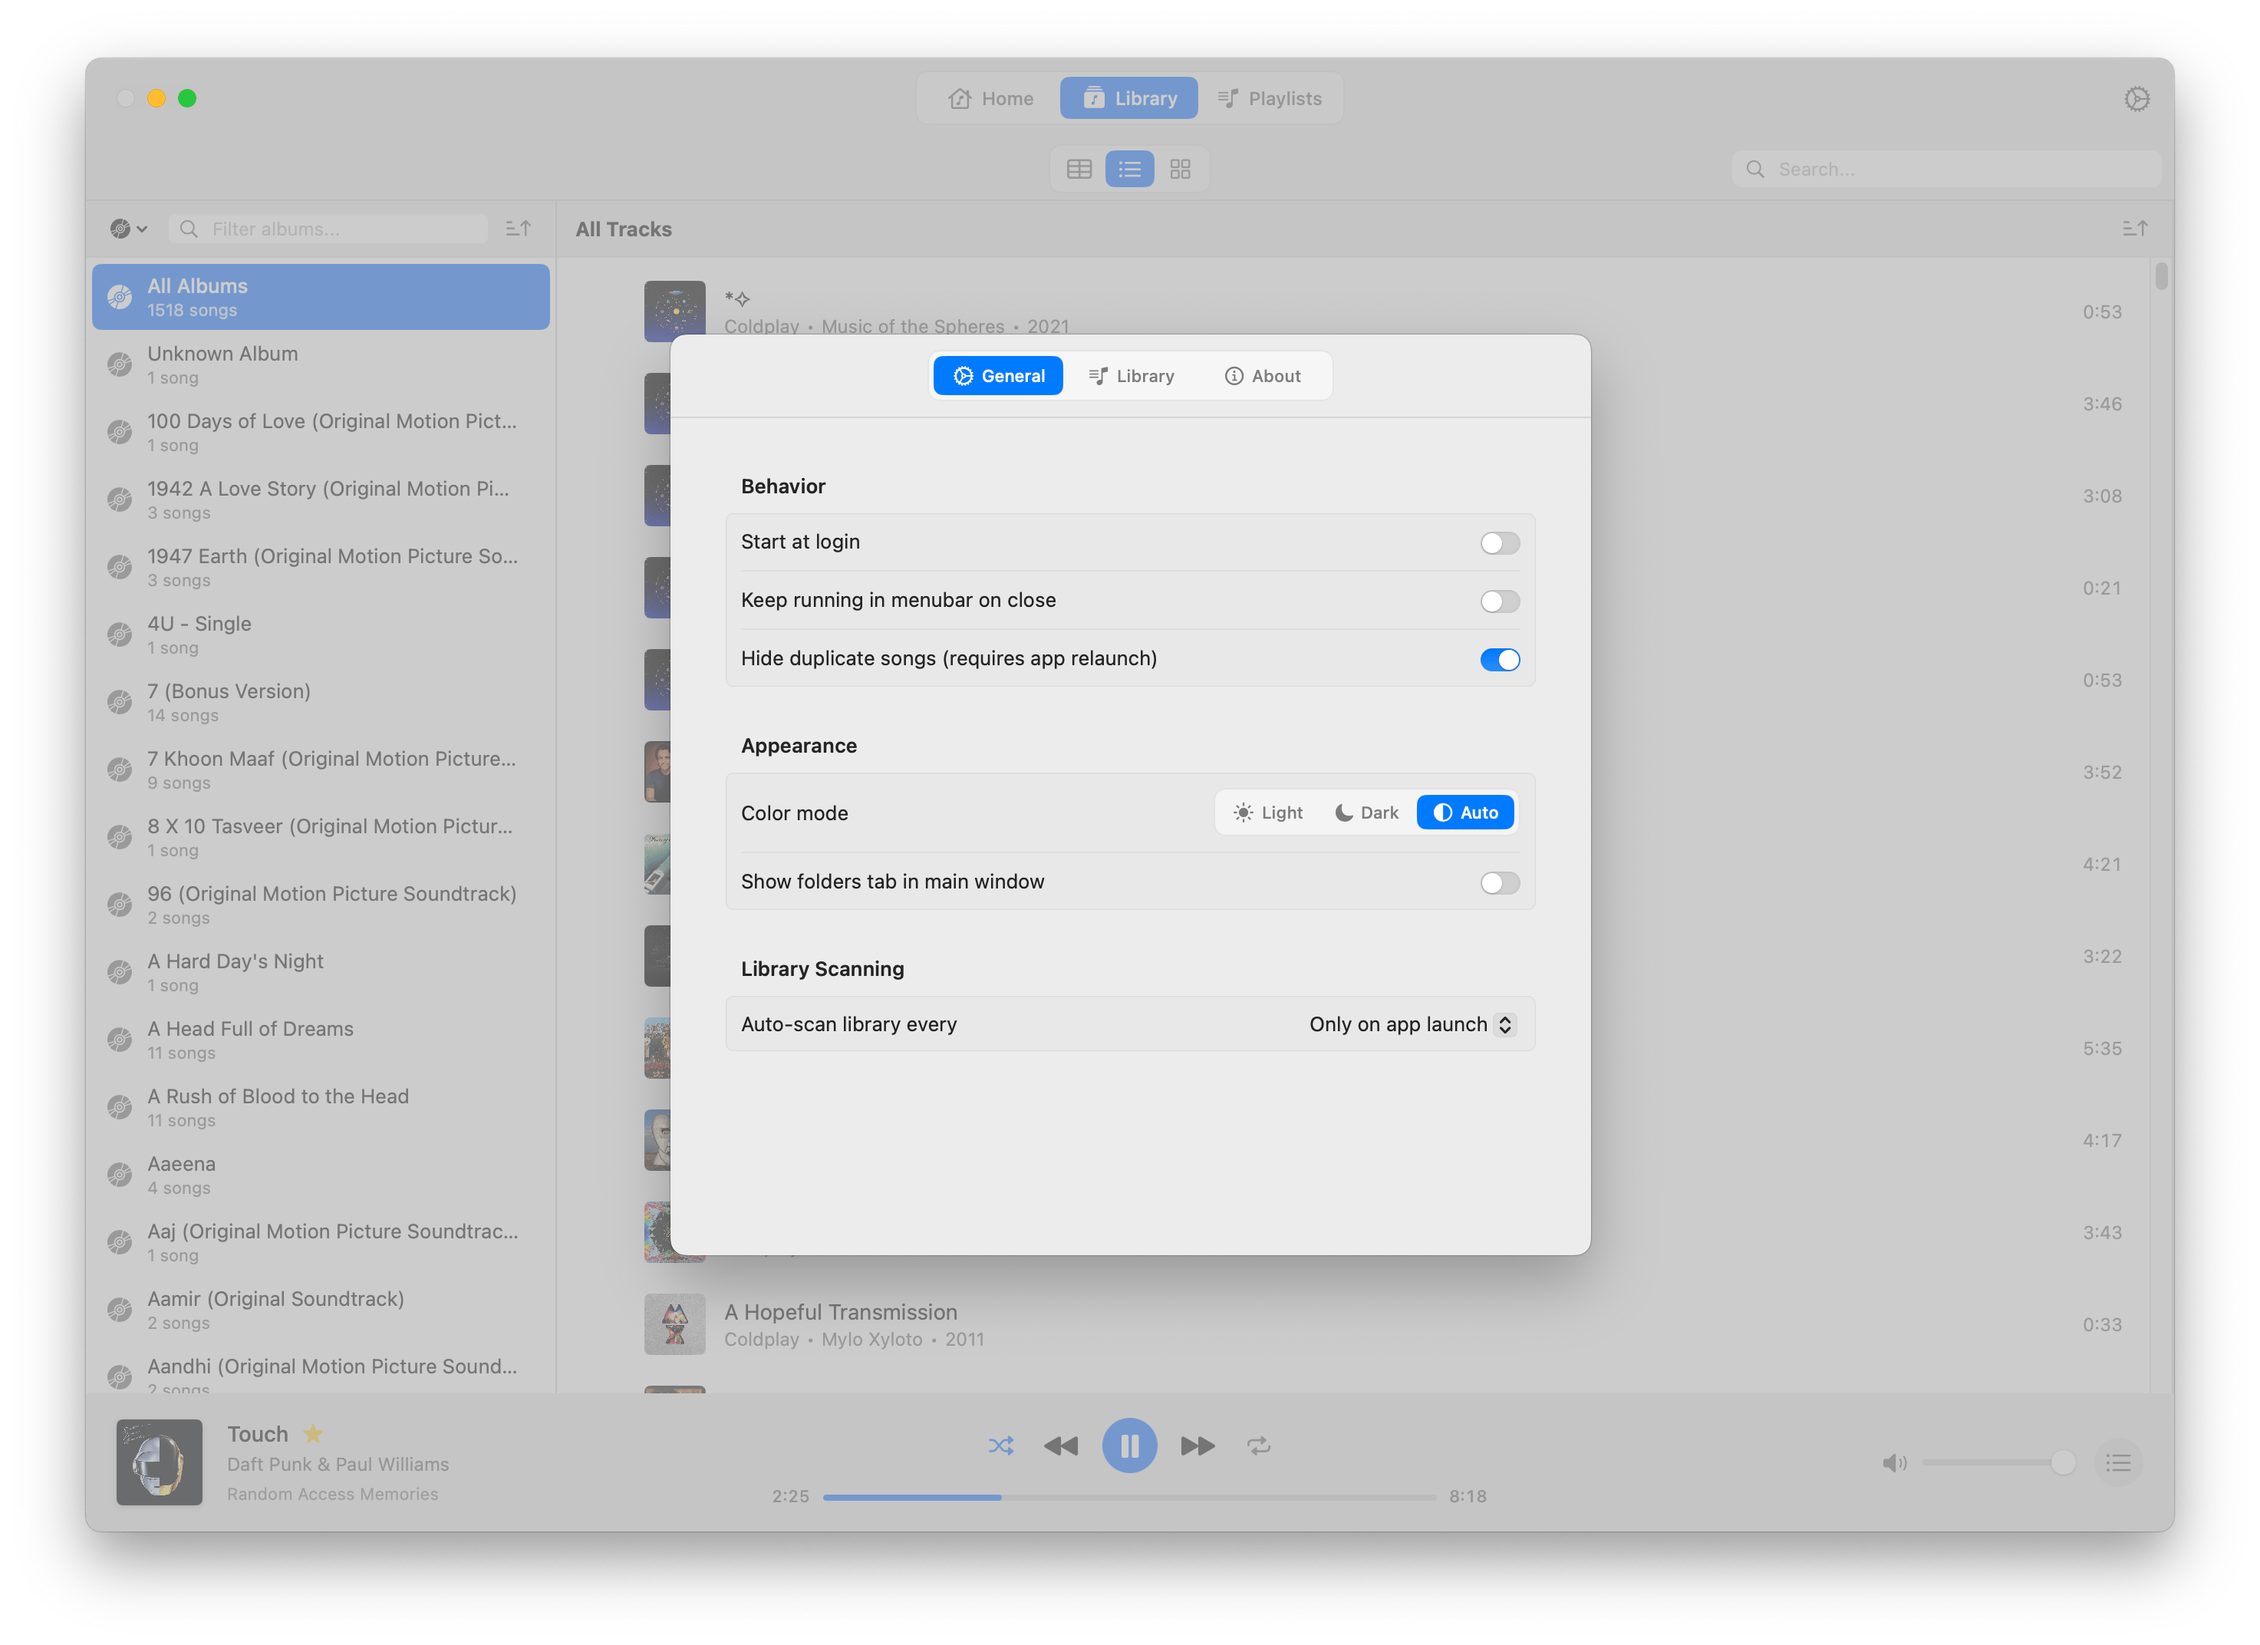
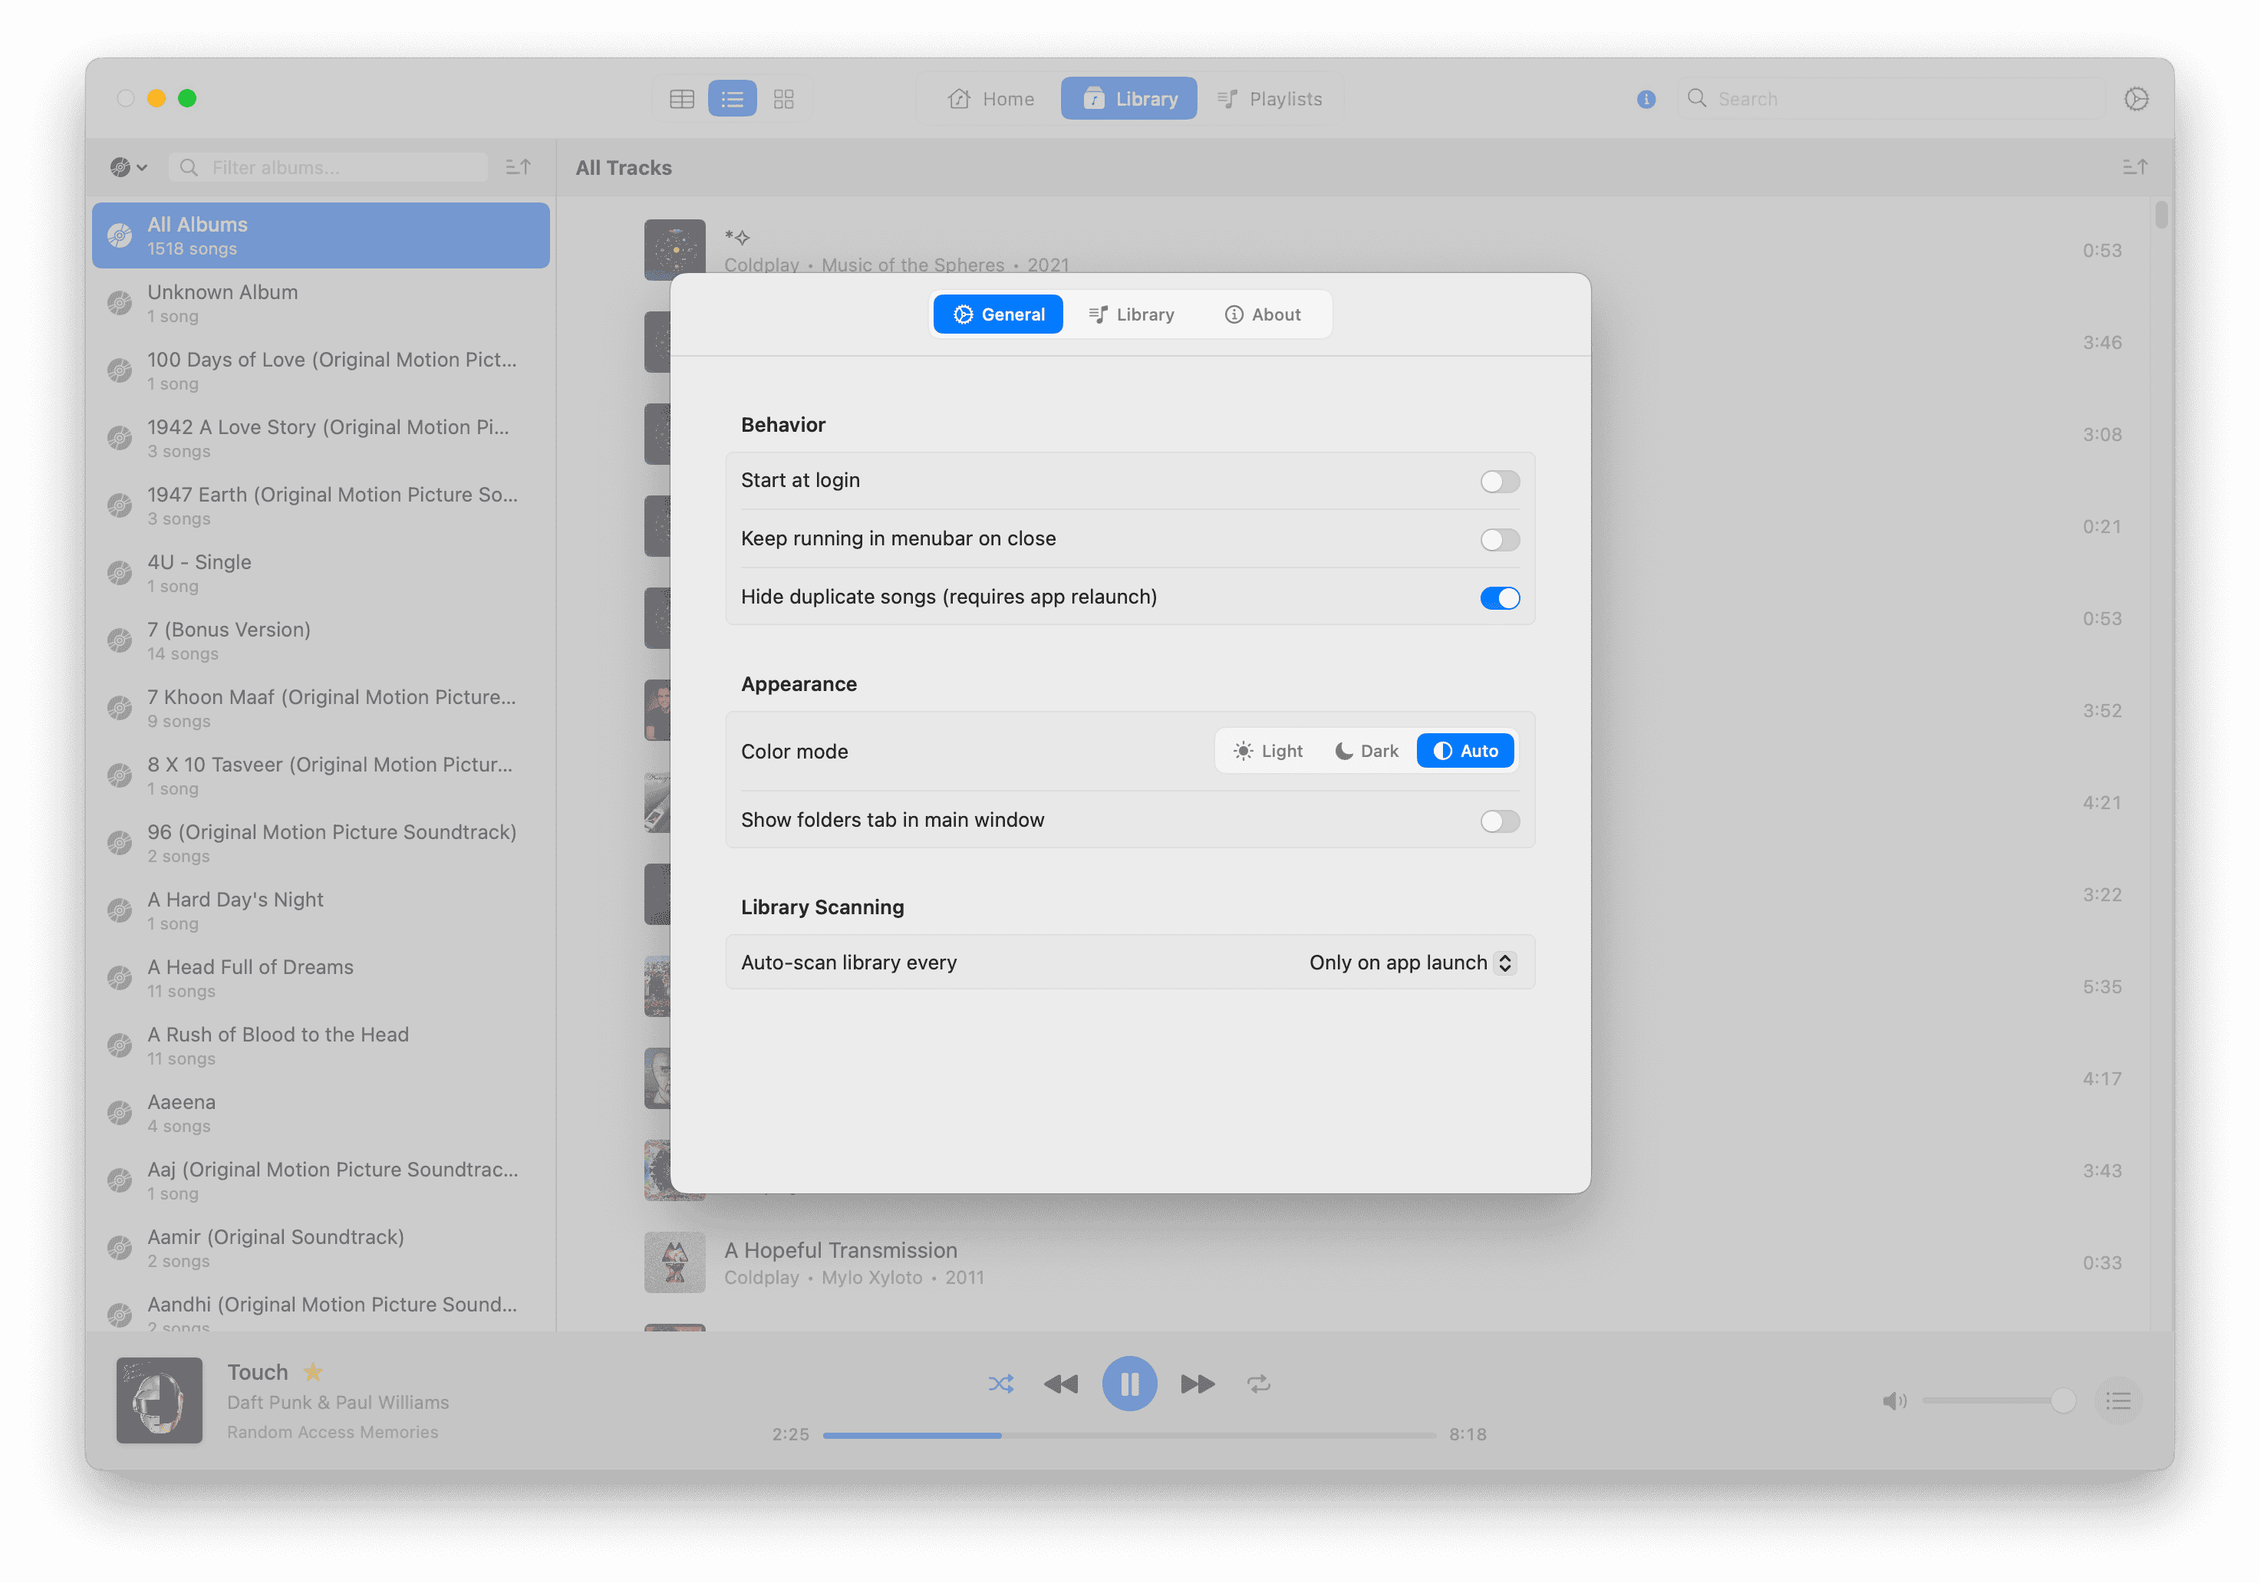
Combined ContextualToolbar with main Toolbar

diff --git a/Views/Main/ContentView.swift b/Views/Main/ContentView.swift
@@ -27,32 +27,22 @@ struct ContentView: View {
     @State private var windowDelegate = WindowDelegate()
     @State private var isSettingsHovered = false
     @State private var homeShowingEntities: Bool = false
+    @State private var secondaryWidth: CGFloat?
+    @State private var primaryMaxX: CGFloat?
+    @State private var primaryWidth: CGFloat?
+    @State private var principalWidth: CGFloat?
+    
+    private var statusMinWidth: CGFloat? {
+        if let primaryMaxX, let primaryWidth, let principalWidth, let secondaryWidth {
+            min(secondaryWidth, max(0, primaryMaxX / 2 - principalWidth / 2 - primaryWidth - 30))
+        } else {
+            nil
+        }
+    }
 
     var body: some View {
         VStack(spacing: 0) {
-            // Persistent Contextual Toolbar - always present when we have music
-            if !libraryManager.folders.isEmpty && !libraryManager.tracks.isEmpty {
-                ContextualToolbar(
-                    viewType: Binding(
-                        get: {
-                            if selectedTab == .home && homeShowingEntities {
-                                return entityViewType
-                            }
-                            return globalViewType
-                        },
-                        set: { newValue in
-                            if selectedTab == .home && homeShowingEntities {
-                                entityViewType = newValue
-                            } else {
-                                globalViewType = newValue
-                            }
-                        }
-                    ),
-                    disableTableView: selectedTab == .home && homeShowingEntities
-                )
-                .frame(height: 40)
-                Divider()
-            }
+            Divider()
 
             // Main Content Area with Queue
             mainContentArea
@@ -195,6 +185,39 @@ struct ContentView: View {
 
     @ToolbarContentBuilder
     private var toolbarContent: some ToolbarContent {
+        ToolbarItemGroup(placement: .secondaryAction) {
+            HStack(spacing: 0) {
+                // Persistent Contextual Toolbar - always present when we have music
+                if !libraryManager.folders.isEmpty && !libraryManager.tracks.isEmpty {
+                    ContextualToolbar(
+                        viewType: Binding(
+                            get: {
+                                if selectedTab == .home && homeShowingEntities {
+                                    return entityViewType
+                                }
+                                return globalViewType
+                            },
+                            set: { newValue in
+                                if selectedTab == .home && homeShowingEntities {
+                                    entityViewType = newValue
+                                } else {
+                                    globalViewType = newValue
+                                }
+                            }
+                        ),
+                        disableTableView: selectedTab == .home && homeShowingEntities
+                    )
+                    .frame(height: 40)
+                }
+            }
+            .padding(.trailing, 50)
+            .onGeometryChange(for: CGFloat.self) { proxy in
+                proxy.frame(in: .global).width
+            } action: { width in
+                secondaryWidth = width
+            }
+        }
+        
         ToolbarItem(placement: .principal) {
             TabbedButtons(
                 items: Sections.allCases.filter { $0 != .folders || showFoldersTab },
@@ -202,15 +225,47 @@ struct ContentView: View {
                 animation: .transform,
                 isDisabled: libraryManager.folders.isEmpty
             )
+			.onGeometryChange(for: CGFloat.self) { proxy in
+                proxy.frame(in: .global).width
+            } action: { width in
+                principalWidth = width
+            }
+        }
+        
+        ToolbarItem(placement: .status) {
+            Color.clear.frame(minWidth: statusMinWidth, idealWidth: statusMinWidth, maxWidth: statusMinWidth)
         }
 
         ToolbarItem(placement: .primaryAction) {
             HStack(alignment: .center, spacing: 8) {
                 NotificationTray()
                     .frame(width: 24, height: 24)
-
+                searchField
                 settingsButton
             }
+			.onGeometryChange(for: PrimaryActionMetrics.self) { proxy in
+                let frame = proxy.frame(in: .global)
+                return PrimaryActionMetrics(maxX: frame.maxX, width: frame.width)
+            } action: { metrics in
+                primaryMaxX = metrics.maxX
+                primaryWidth = metrics.width
+            }
+        }
+    }
+	
+	// MARK: - Search Input Field
+    private var searchField: some View {
+        HStack(spacing: 6) {
+            // TODO we should ideally replace this with `.searchable`
+            // which provides this UX without log of extra code, although
+            // it would require titlebar layout changes.
+            SearchInputField(
+                text: $libraryManager.globalSearchText,
+                placeholder: "Search",
+                fontSize: 12,
+                width: 280
+            )
+            .frame(width: 280)
         }
     }
 
@@ -272,6 +327,11 @@ struct ContentView: View {
             showingTrackDetail = false
             detailTrack = nil
         }
+    }
+    
+    private struct PrimaryActionMetrics: Equatable {
+        let maxX: CGFloat
+        let width: CGFloat
     }
 }
 

diff --git a/Views/Components/TabbedButtons.swift b/Views/Components/TabbedButtons.swift
@@ -35,19 +35,22 @@ struct TabbedButtons<Item: TabbedItem>: View {
     let style: TabbedButtonStyle
     let animation: TabbedButtonAnimation
     let isDisabled: Bool
+    let disableTableView: Bool
 
     init(
         items: [Item],
         selection: Binding<Item>,
         style: TabbedButtonStyle = .standard,
         animation: TabbedButtonAnimation = .fade,
-        isDisabled: Bool = false
+        isDisabled: Bool = false,
+        disableTableView: Bool = false
     ) {
         self.items = items
         self._selection = selection
         self.style = style
         self.animation = animation
         self.isDisabled = isDisabled
+        self.disableTableView = disableTableView
     }
 
     var body: some View {
@@ -58,7 +61,8 @@ struct TabbedButtons<Item: TabbedItem>: View {
                     isSelected: selection == item,
                     style: style,
                     animation: animation,
-                    isDisabled: isDisabled
+                    isDisabled: self.disableTableView && item as! LibraryViewType == LibraryViewType.table ?
+                                true : isDisabled
                 ) {
                     if !isDisabled {
                         withAnimation(.easeInOut(duration: AnimationConstants.transformDuration)) {
@@ -134,11 +138,11 @@ private struct TabbedButton<Item: TabbedItem>: View {
                         .font(.system(size: style.iconSize, weight: .medium))
                         .foregroundStyle(foregroundStyle)
                         .animation(
-                            .easeInOut(duration: AnimationConstants.transformDuration)
+                            .easeInOut(duration: isDisabled ? 0 : AnimationConstants.transformDuration)
                                 .delay(animation == .transform && isSelected
                                     ? AnimationConstants.transformTextDelay
                                     : 0),
-                            value: isSelected
+                            value: isSelected && !isDisabled
                         )
                 }
 
@@ -240,7 +244,8 @@ private struct TabbedButton<Item: TabbedItem>: View {
                         isHovered ? Color.primary.opacity(0.06) :
                         Color.clear
                 )
-                .animation(.easeOut(duration: AnimationConstants.fadeDuration), value: isSelected)
+                .animation(.easeOut(duration: isDisabled ? 0 : AnimationConstants.fadeDuration),
+                           value: isSelected && !isDisabled)
                 .animation(.easeOut(duration: AnimationConstants.hoverDuration), value: isHovered)
         } else {
             // Transform animation - no individual background, uses moving background

diff --git a/Views/Components/ContextualToolbar.swift b/Views/Components/ContextualToolbar.swift
@@ -5,15 +5,12 @@ struct ContextualToolbar: View {
     @Binding var viewType: LibraryViewType
     var disableTableView: Bool = false
 
-    @FocusState private var isSearchFieldFocused: Bool
-
     var body: some View {
         HStack {
             toolbarContent
         }
         .frame(height: 40)
-        .padding(.horizontal, 8)
-        .background(Color(NSColor.windowBackgroundColor))
+        .padding(.trailing, 8)
         .onTapGesture {
             NSApp.keyWindow?.makeFirstResponder(nil)
         }
@@ -26,17 +23,8 @@ struct ContextualToolbar: View {
     // MARK: - Shared Toolbar Content
 
     private var toolbarContent: some View {
-        ZStack {
-            HStack {
-                Spacer()
-                viewToggleButtons
-                Spacer()
-            }
-
-            HStack {
-                Spacer()
-                searchField
-            }
+        HStack {
+            viewToggleButtons
         }
     }
 
@@ -44,28 +32,11 @@ struct ContextualToolbar: View {
 
     private var viewToggleButtons: some View {
         TabbedButtons(
-            items: disableTableView
-                ? [LibraryViewType.list, LibraryViewType.grid]
-                : [LibraryViewType.table, LibraryViewType.list, LibraryViewType.grid],
+            items: [LibraryViewType.table, LibraryViewType.list, LibraryViewType.grid],
             selection: $viewType,
-            style: .viewToggle
+            style: .viewToggle,
+            disableTableView: disableTableView
         )
-    }
-
-    // MARK: - Search Input Field
-    private var searchField: some View {
-        HStack(spacing: 6) {
-            // TODO we should ideally replace this with `.searchable`
-            // which provides this UX without log of extra code, although
-            // it would require titlebar layout changes.
-            SearchInputField(
-                text: $libraryManager.globalSearchText,
-                placeholder: "Search",
-                fontSize: 12,
-                width: 280
-            )
-            .frame(width: 280)
-        }
     }
 }
 
